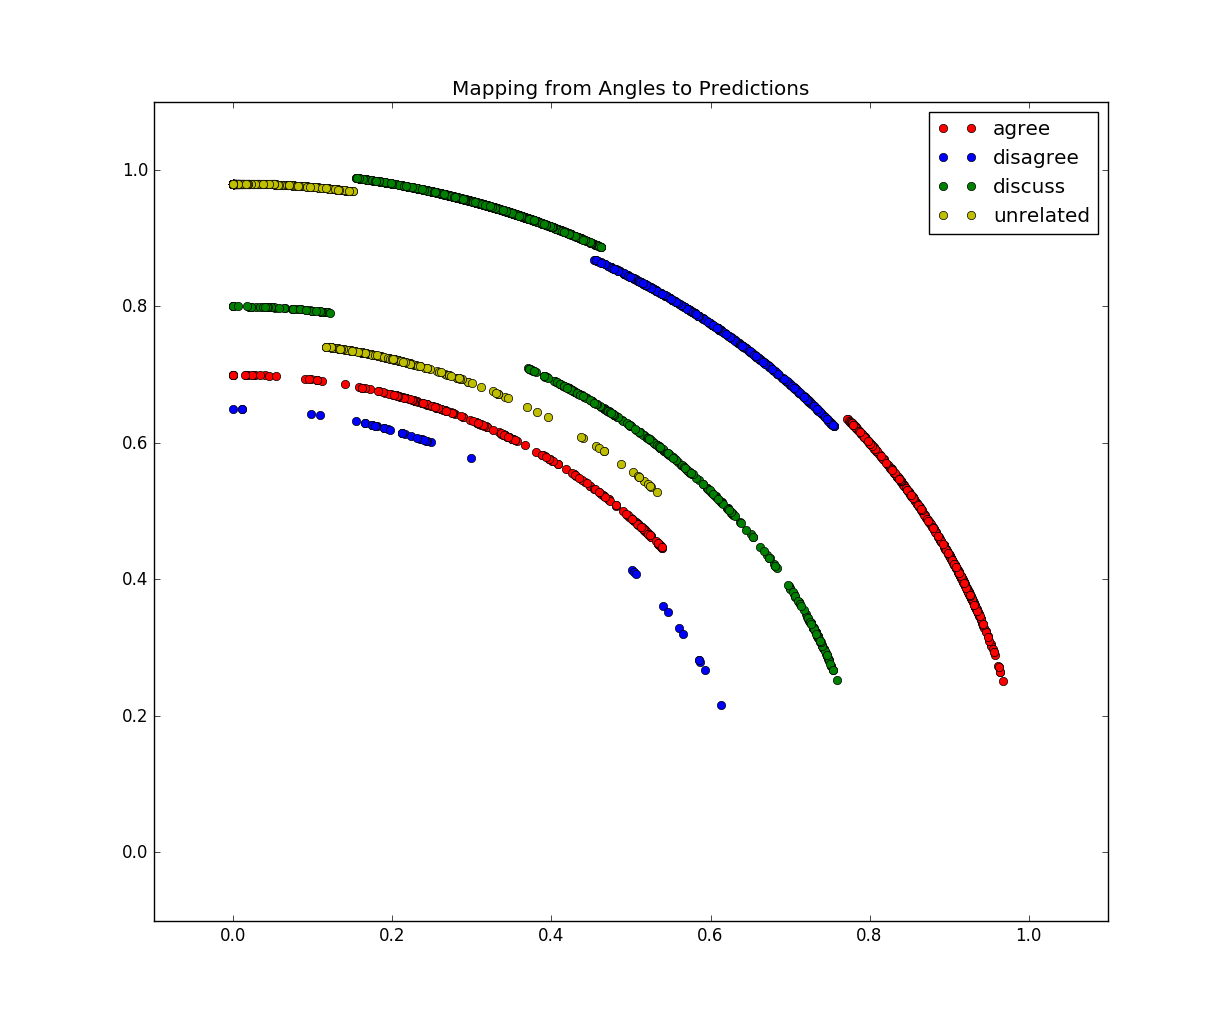
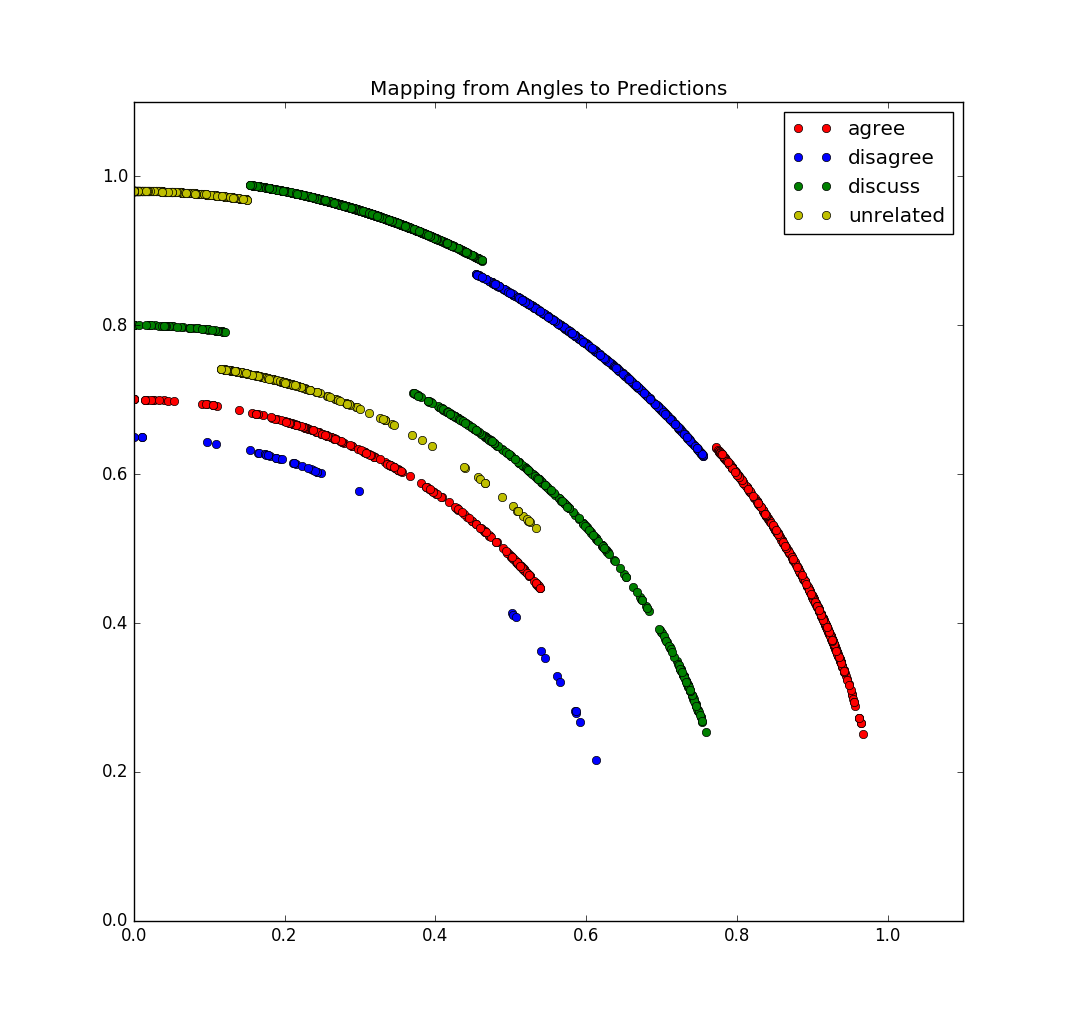
edited mappings

diff --git a/scripts/plot_cosines.py b/scripts/plot_cosines.py
@@ -91,8 +91,8 @@ plot(k_agree, "r", length=0.7)
 plot(k_disagree, "b", length=0.65)
 
 
-plt.xlim((-0.1, 1.1))
-plt.ylim((-0.1, 1.1))
+plt.xlim((0, 1.1))
+plt.ylim((0, 1.1))
 
 plt.legend()
 plt.title("Mapping from Angles to Predictions")
